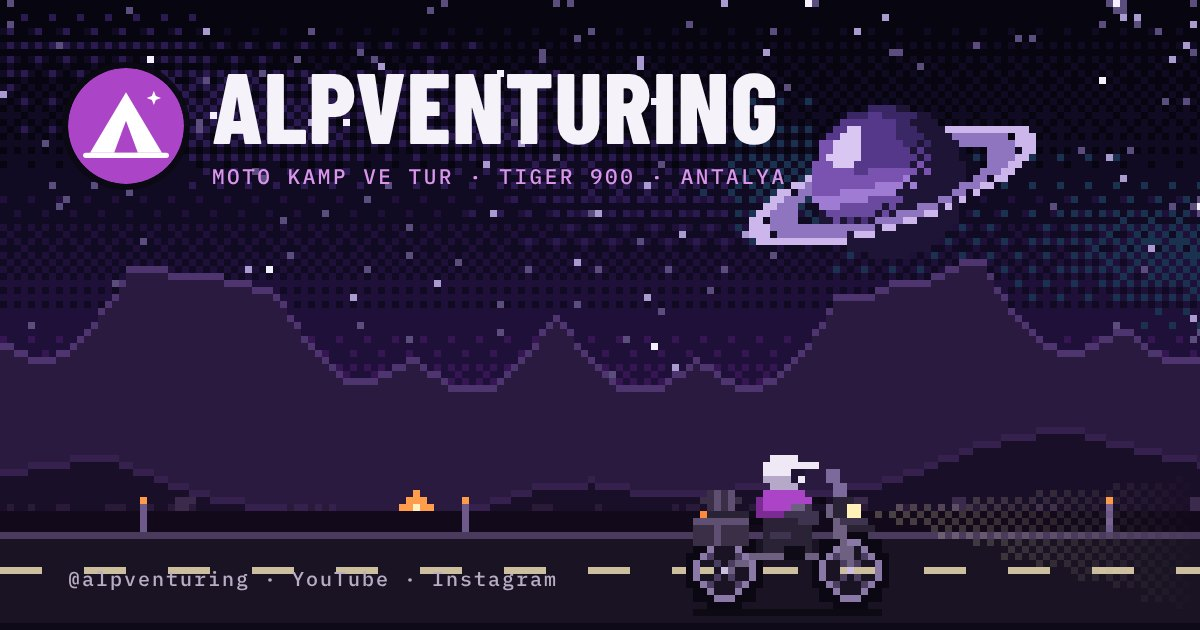
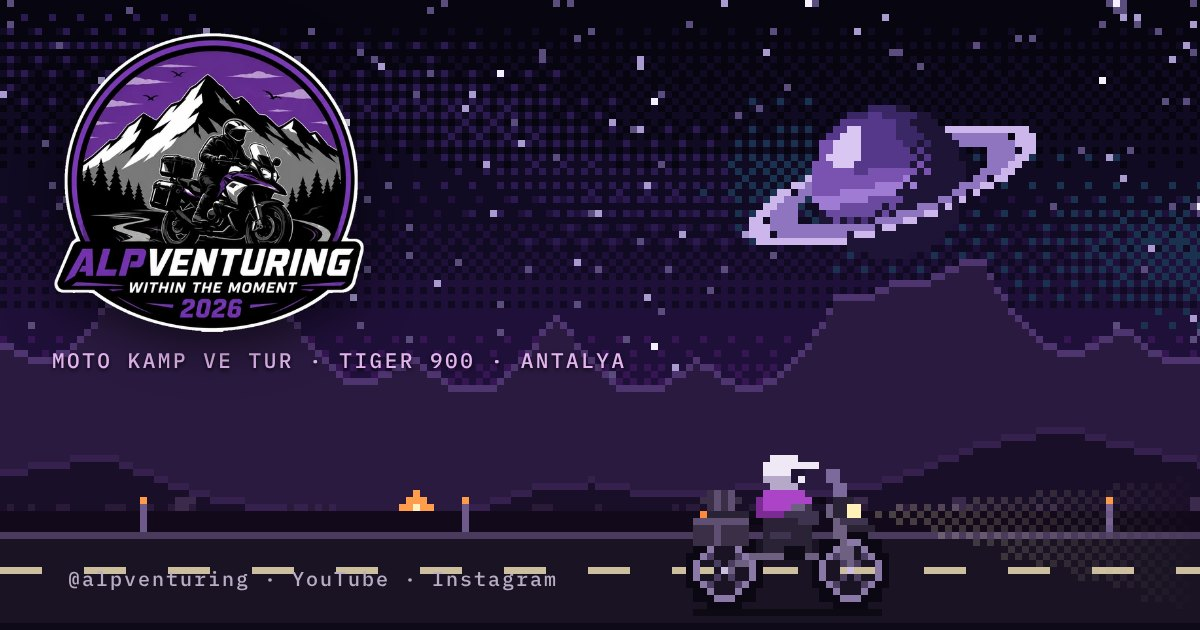
Profil görseli, simgeler ve paylaşım önizlemesi için logoyu kullan
Claude-Session: https://claude.ai/code/session_01A3QZPSLX9tAUiV18iSpfDV

diff --git a/index.html b/index.html
@@ -6,7 +6,7 @@
 <title>ALPVENTURING | Moto Kamp &amp; Tur</title>
 <meta name="description" content="Selam, ben Alp. Hayatın gürültüsünden kaçıp kendimi motosikletle yollara, doğaya ve sessizliğe atıyorum.">
 <meta name="theme-color" content="#0b0910">
-<link rel="icon" href="favicon.svg" type="image/svg+xml">
+<link rel="icon" href="favicon.png" type="image/png">
 <link rel="apple-touch-icon" href="apple-touch-icon.png">
 <link rel="canonical" href="https://alpventuring.github.io/">
 <meta property="og:type" content="website">
@@ -18,7 +18,7 @@
 <meta property="og:image:type" content="image/jpeg">
 <meta property="og:image:width" content="1200">
 <meta property="og:image:height" content="630">
-<meta property="og:image:alt" content="ALPVENTURING: gece kampı, çadır, motosiklet ve kamp ateşi">
+<meta property="og:image:alt" content="ALPVENTURING: piksel sanat gece sahnesi ve logo">
 <meta property="og:locale" content="tr_TR">
 <meta name="twitter:card" content="summary_large_image">
 <style>
@@ -49,6 +49,7 @@
   --glass: rgba(11, 9, 16, 0.62);
   --glass-line: rgba(255, 255, 255, 0.14);
   --halo: rgba(171, 68, 199, 0.13);
+  --shade: rgba(0, 0, 0, 0.55);
   /* yazı */
   --f-display: "Barlow Condensed", "Roboto Condensed", "Arial Narrow", sans-serif;
   --f-body: "Barlow", "Segoe UI", Roboto, "Helvetica Neue", Arial, sans-serif;
@@ -129,17 +130,13 @@ body {
 .avatar {
   position: relative;
   z-index: 1;
-  width: 92px;
-  height: 92px;
-  margin: -48px 0 4px 12px;
-  border-radius: 50%;
-  overflow: hidden;
-  background: var(--purple);
-  box-shadow: 0 0 0 4px var(--night);
+  display: block;
+  width: 124px;
+  max-width: 100%;
+  height: auto;
+  margin: -60px 0 0 4px;
+  filter: drop-shadow(0 6px 14px var(--shade));
 }
-.avatar svg { display: block; width: 100%; height: 100%; }
-.mark-fg { fill: var(--chalk); }
-.mark-cut { fill: var(--purple); }
 .name {
   margin: 4px 0 0;
   font: 800 var(--t-name)/0.92 var(--f-display);
@@ -407,14 +404,7 @@ body {
     </header>
 
     <section class="profile">
-      <div class="avatar" aria-hidden="true">
-        <svg viewBox="0 0 100 100">
-          <path class="mark-fg" d="M50 21 81 73H19z"/>
-          <path class="mark-cut" d="M50 45.5 60.2 73H39.8z"/>
-          <rect class="mark-fg" x="13" y="73" width="74" height="4.6" rx="2.3"/>
-          <path class="mark-fg" d="M74 19.6l1.7 4.5 4.5 1.7-4.5 1.7-1.7 4.5-1.7-4.5-4.5-1.7 4.5-1.7z"/>
-        </svg>
-      </div>
+      <img class="avatar" src="logo.webp" alt="ALPVENTURING logosu" width="480" height="460">
       <h1 class="name" id="name">ALPVENTURING</h1>
       <p class="handle">@alpventuring</p>
       <p class="bio" data-i18n="bio">Selam, ben Alp. Hayatın gürültüsünden kaçıp kendimi motosikletle yollara, doğaya ve sessizliğe atıyorum.</p>

diff --git a/README.md b/README.md
@@ -2,7 +2,7 @@
 
 Yayın adresi: https://alpventuring.github.io
 
-Instagram ve YouTube bio'sundaki link sayfası. Sitenin tamamı tek dosya: `index.html`.
+Instagram ve YouTube bio'sundaki link sayfası. Sayfanın tamamı `index.html`; logo `logo.webp`.
 
 ## Sık yapılan değişiklikler
 
